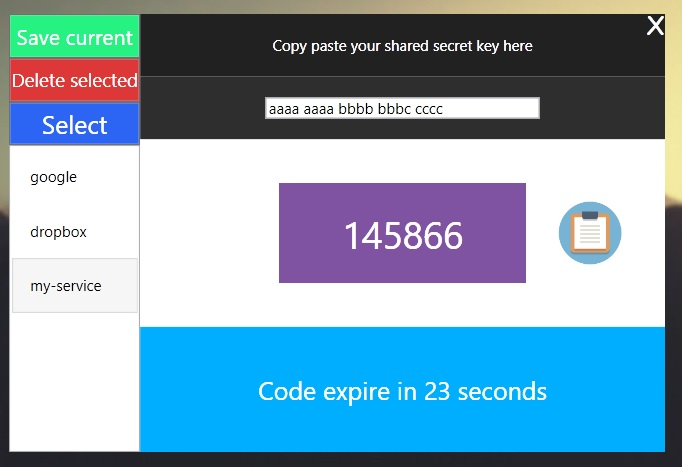
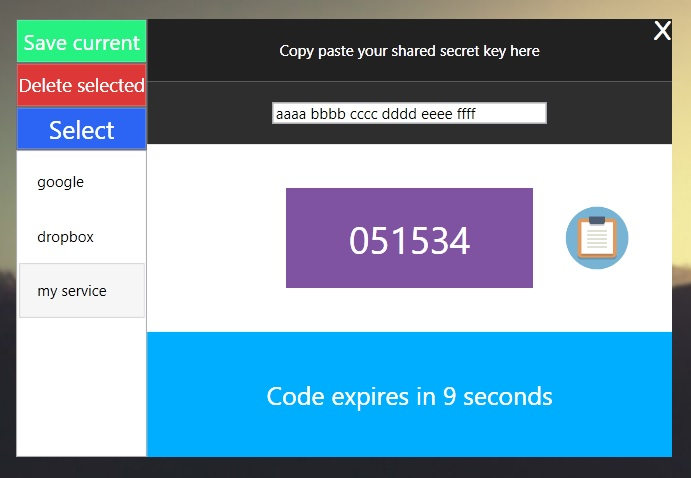
fixed some typo's error

diff --git a/totp-generator/totp-generator/MainWindow.xaml.cs b/totp-generator/totp-generator/MainWindow.xaml.cs
@@ -65,7 +65,7 @@ namespace totp_generator
                 _totp.Refresh();
                 labelCode.Content = _totp.Code;
                 imgClipboard.Visibility = Visibility.Visible;
-                labelTimeLeft.Content = "Code expire in " + _totp.TimeLeft + " second";
+                labelTimeLeft.Content = "Code expires in " + _totp.TimeLeft + " second";
                 if (_totp.TimeLeft != "1")
                     labelTimeLeft.Content += "s";
             }

diff --git a/README.md b/README.md
@@ -1,15 +1,15 @@
 # totp-generator
 Generate a TOTP token (2-Step Verification) using secret key from services like google, dropbox, etc.
 
-![alt tag](https://raw.githubusercontent.com/biji1/totp-generator/master/res/screen.jpg)
-
 ## Details
 - Simple implementation of the RFC 6238 (https://tools.ietf.org/html/rfc6238) in C# WPF Application.
 - Secret keys are by default stored in "MyDocuments/totp-generator-keys/Accounts.xml"'s file when using the save button.
 - Secret key's minimal length is 3.
 
+![alt tag](https://raw.githubusercontent.com/biji1/totp-generator/master/res/screen.jpg =500x)
+
 ## Todo
-- ...
+- Add settings for timer (default 30) and token's length (default 6) to make it works with other services like battle.net
 
 ## Done
 
